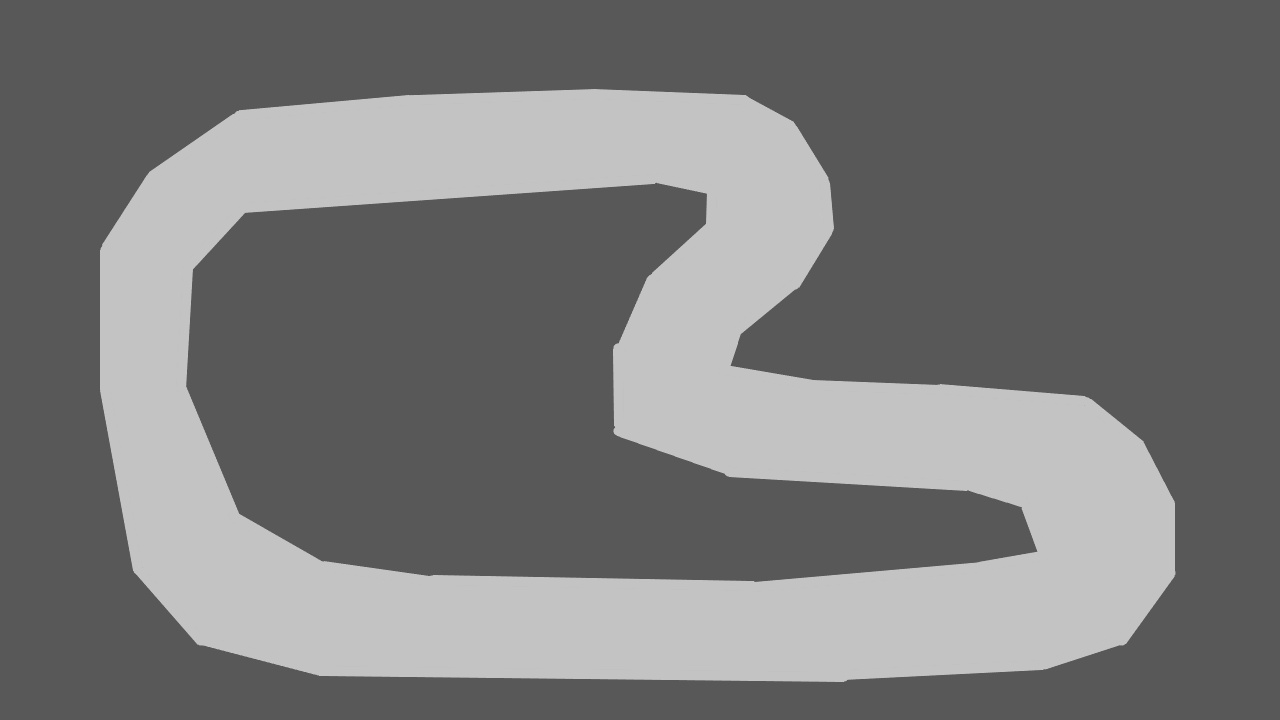
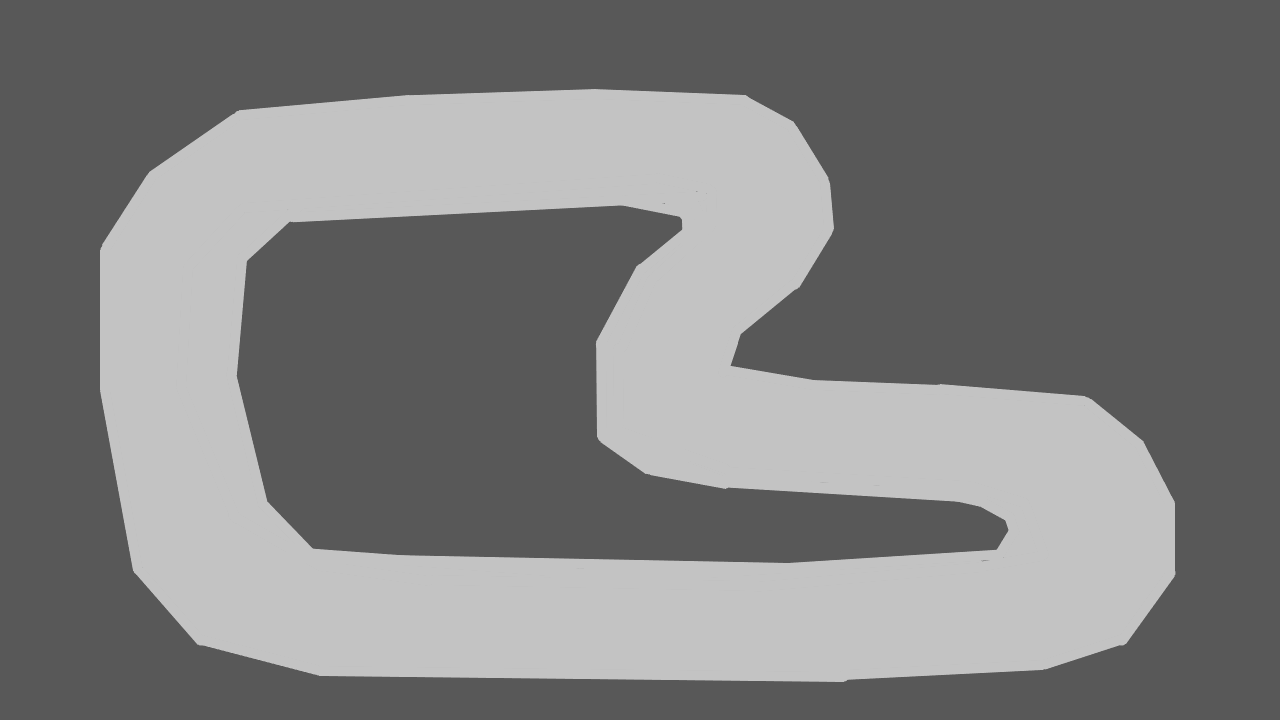
Add files via upload

Changed region(s): [[0.125, 0.2444, 0.8125, 0.825]]

diff --git a/Main/main.py b/Main/main.py
@@ -12,8 +12,7 @@ import car
 
 # making the game window and loading images
 pg.init()
-background = pg.image.load("track.png")
-image = pg.image.load("car.png")
+# background = pg.image.load("track.png")
 clock = pg.time.Clock()
 height = 720
 width = 1280
@@ -22,7 +21,53 @@ w_half = width / 2
 win = pg.display.set_mode((width, height))
 pg.display.set_caption("Car AI")
 
-track_out = ((100, 392),
+# track_out = ((100, 392),
+# (100, 249),
+# (150, 171),
+# (237, 111),
+# (404, 95),
+# (594, 89),
+# (745, 95),
+# (793, 121),
+# (828, 178),
+# (833, 228),
+# (799, 286),
+# (740, 334),
+# (730, 365),
+# (812, 381),
+# (940, 385),
+# (1086, 397),
+# (1143, 441),
+# (1174, 502),
+# (1175, 574),
+# (1123, 643),
+# (1043, 669),
+# (845, 681),
+# (320, 675),
+# (199, 643),
+# (133, 571))
+
+
+# draw window and other classes method
+def window():
+    # win.blit(background, (0, 0))
+    win.fill((0, 0, 0))
+    # h.draw
+    t_out.draw(win)
+    t_in.draw(win)
+    c.draw(win)
+    # h.draw(win, c.angle, c.position[0], c.position[1])
+    pg.display.flip()
+
+
+# booleans to check if car is driving forward or backwards to fix steering
+forward = True
+backwards = False
+
+group = pg.sprite.Group()
+
+# making objects
+t_out = track.Track(((100, 392),
 (100, 249),
 (150, 171),
 (237, 111),
@@ -46,35 +91,31 @@ track_out = ((100, 392),
 (845, 681),
 (320, 675),
 (199, 643),
-(133, 571))
+(133, 571)))
+t_in = track.Track(())
 
-
-# draw window and other classes method
-def window():
-    win.blit(background, (0, 0))
-    # h.draw(win, s.position[0], s.position[1])
-    t.draw(win, track_out)
-    c.draw(win, image)
-    h.draw(win, c.angle, c.position[0], c.position[1])
-    pg.display.update()
-
-
-# booleans to check if car is driving forward or backwards to fix steering
-forward = True
-backwards = False
-
-# making objects
-t = track.Track()
 h = hitbox.Hitbox()
 c = car.Car()
+
+group.add(t_out)
+# car_group = pg.sprite.Group()
+
+
 done = False
 # main game loop
 while not done:
     # set clock speed of game
     clock.tick(60)
 
-    print(pg.sprite.spritecollide(h, t, True))
+    # car_crash = pg.sprite.spritecollide(c, group, True, pg.sprite.collide_mask)
 
+    car_crash = pg.sprite.collide_mask(c, t_out) or pg.sprite.collide_mask(c, t_in)
+
+    if car_crash:
+        print('collide')
+        car_crash = False
+        c.__init__()
+    #
     # to check if game window has been closed
     for event in pg.event.get():
         if event.type == pg.QUIT:

diff --git a/Main/car.py b/Main/car.py
@@ -6,8 +6,9 @@ This is where the car is drawn and given values
 import pygame as pg
 
 
-class Car(object):
-    def __init__(self, x=250, y=250, angle=0.0, speed=0, deceleration=1, acceleration=1):
+class Car(pg.sprite.Sprite):
+    def __init__(self, x=150, y=320, angle=0.0, speed=0, deceleration=1, acceleration=1, *groups):
+        super().__init__(*groups)
         self.position = (x, y)
         self.angle = angle
         self.speed = speed
@@ -16,16 +17,21 @@ class Car(object):
         self.turn_speed = 5
         self.max_forward_speed = 5
         self.max_reverse_speed = -9
+        self.image = pg.image.load("car.png")
+        self.rotated = pg.transform.rotate(self.image, self.angle)
+        self.rect = self.rotated.get_rect()
+        self.mask = pg.mask.from_surface(self.rotated)
 
-    def draw(self, w, i):
+    def draw(self, w):
         # rotates car
-        rotated = pg.transform.rotate(i, self.angle)
-        rect = rotated.get_rect()
+        self.rotated = pg.transform.rotate(self.image, self.angle)
+        self.rect = self.rotated.get_rect()
         # sets car's position to center of image
-        rect.center = self.position
-        print(self.angle)
-        print(self.position)
-        print(self.speed)
+        self.rect.center = self.position
+        # print(self.angle)
+        # print(self.position)
+        # print(self.speed)
         # displays image on window
-        w.blit(rotated, rect)
+        w.blit(self.rotated, self.rect)
+        self.mask = pg.mask.from_surface(self.rotated)
         pg.display.flip()

diff --git a/Main/track.py b/Main/track.py
@@ -5,9 +5,19 @@ This is where the track's "hitbox" is going to be drawn
 """
 import pygame as pg
 
-class Track(pg.sprite.Sprite):
-    def __init__(self):
-        pass
 
-    def draw(self, w, c):
-        pg.draw.lines(w, (0, 0, 0), True, c, 1)
+class Track(pg.sprite.Sprite):
+    def __init__(self, points):
+        pg.sprite.Sprite.__init__(self)
+        self.position = (0, 0)
+        self.points = points
+        self.image = pg.Surface([1280, 720], pg.SRCALPHA, 32)
+        self.image = self.image.convert_alpha()
+        pg.draw.lines(self.image, (255, 255, 255), True, self.points, 1)
+        # self.image = self.image.convert_alpha(self.image)
+        self.rect = self.image.get_rect()
+        # self.image.fill((0, 255, 0))
+        self.mask = pg.mask.from_surface(self.image)
+
+    def draw(self, w):
+        w.blit(self.image, self.position)

diff --git a/Main/hitbox.py b/Main/hitbox.py
@@ -14,7 +14,7 @@ class Hitbox(pg.sprite.Sprite):
 
         then shifts the box to fit over the car
         """
-        
+
         car_middle = (x, y)
         angle = 116.3 # place holder
         x = car_middle[0] + math.cos(math.radians(-a + -angle)) * math.sqrt(math.pow(53, 2) + math.pow(27, 2)) / 2
